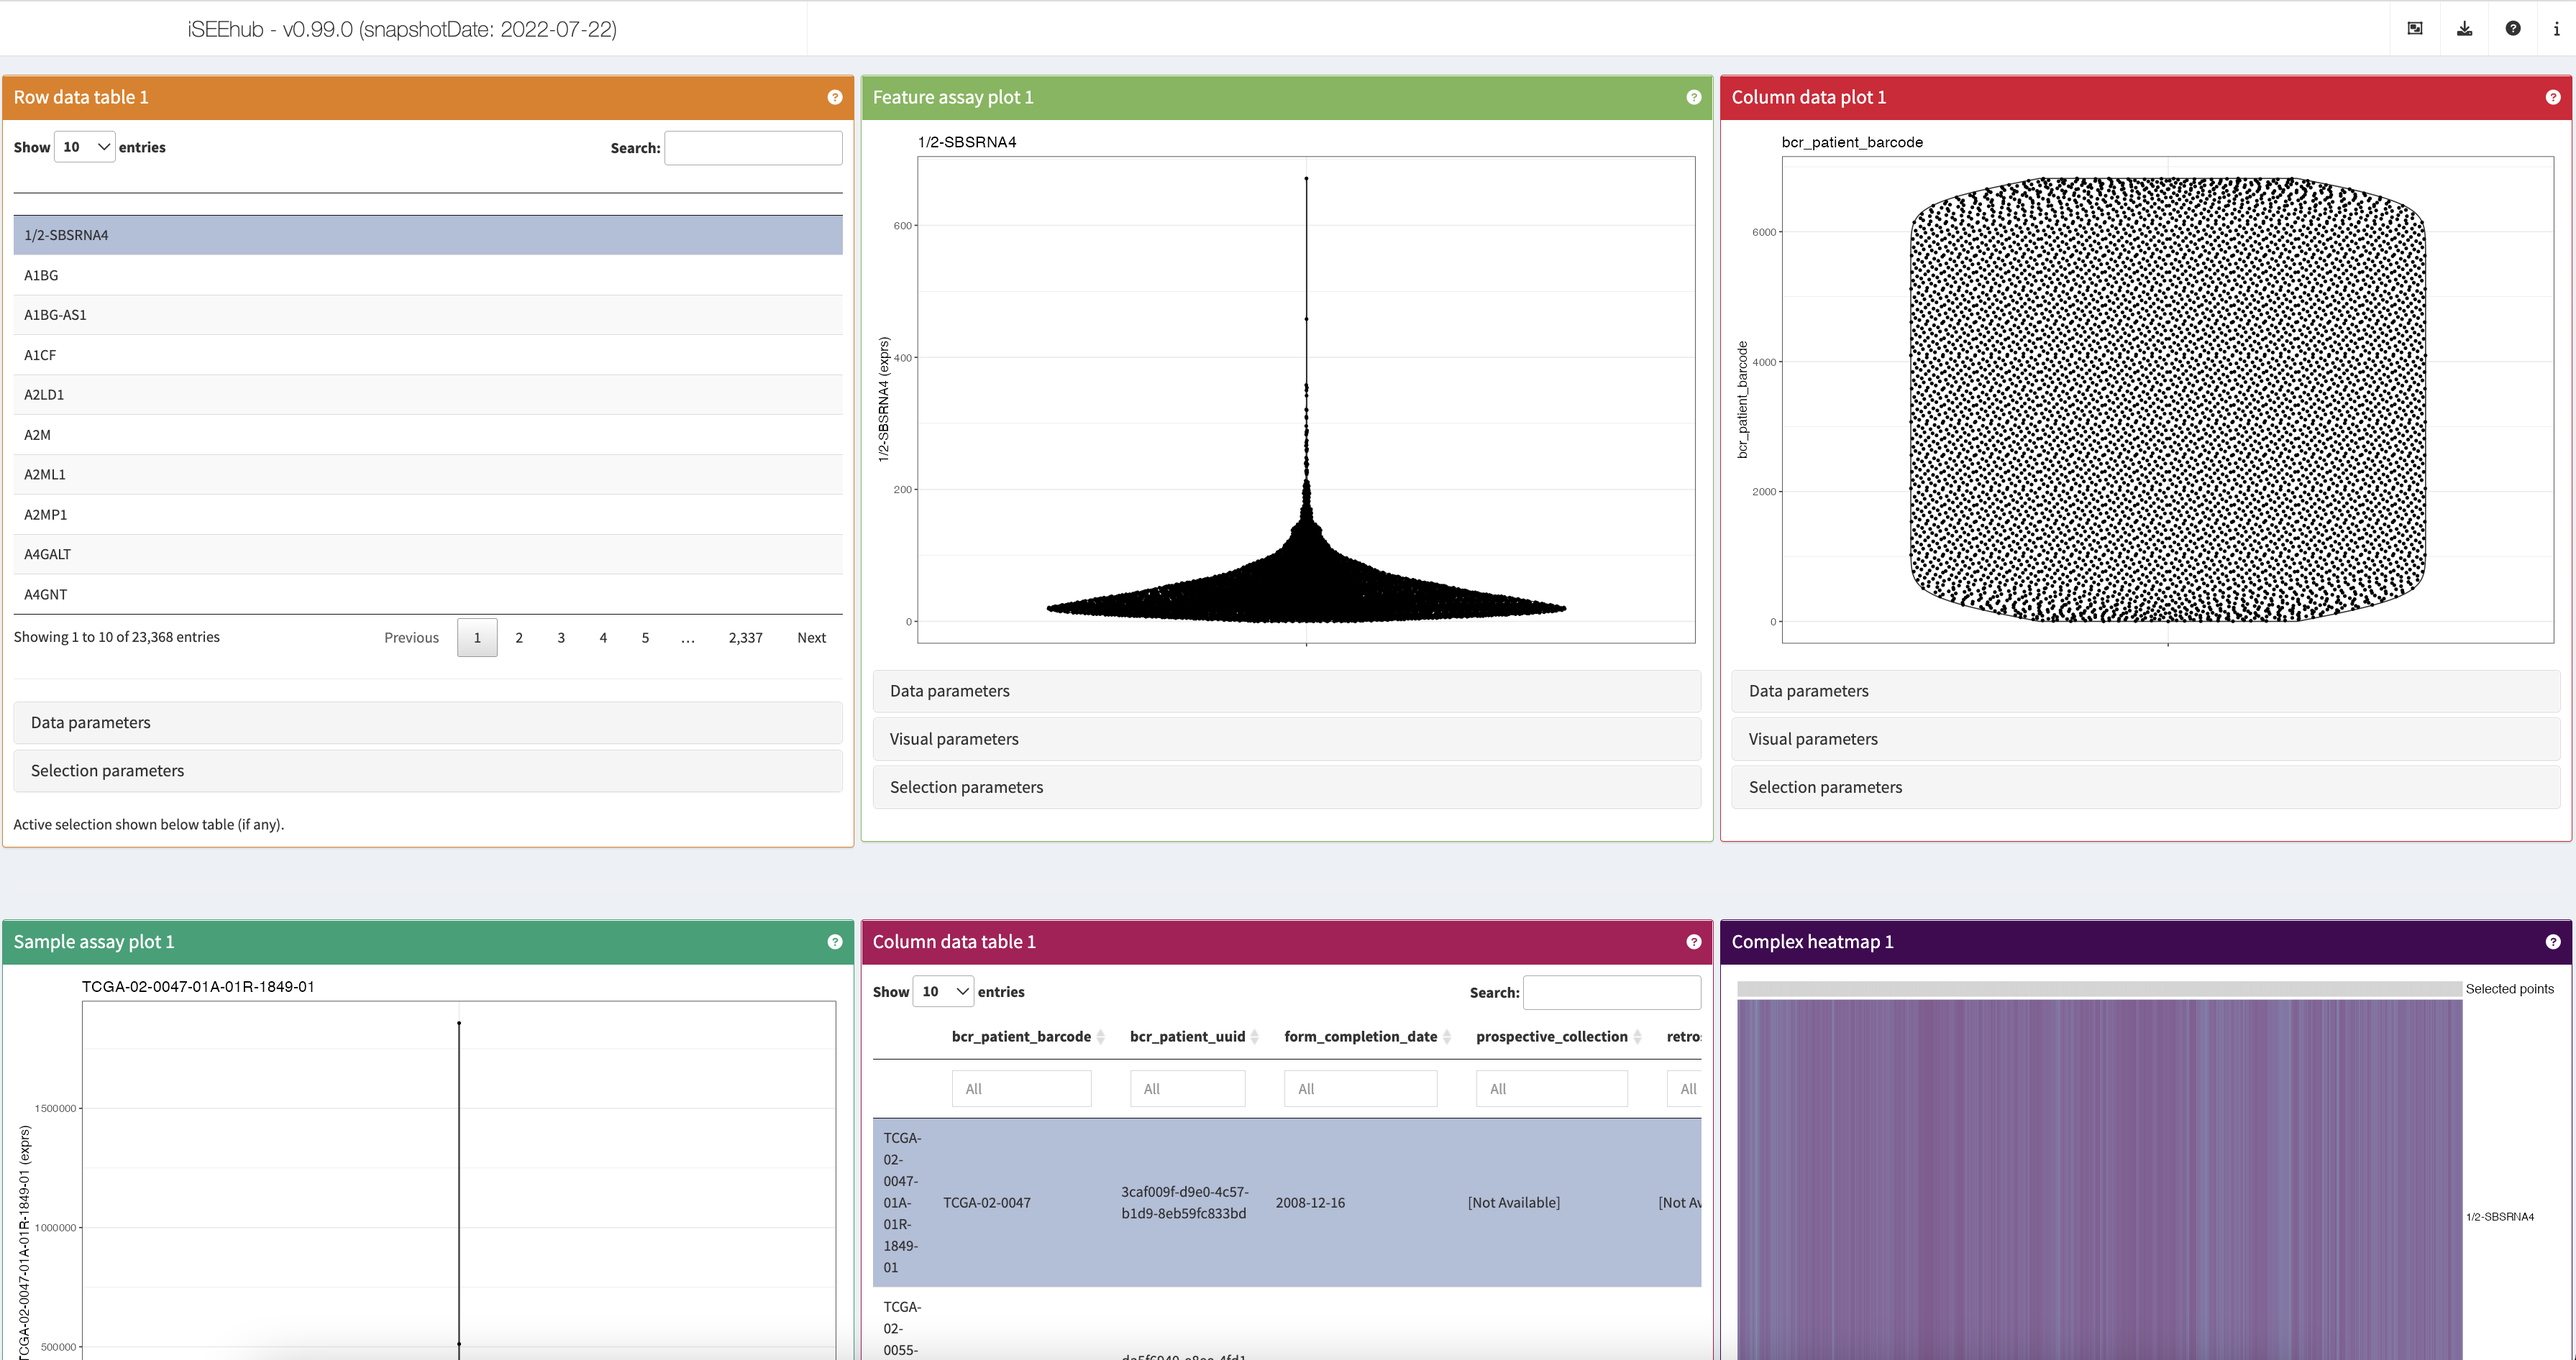
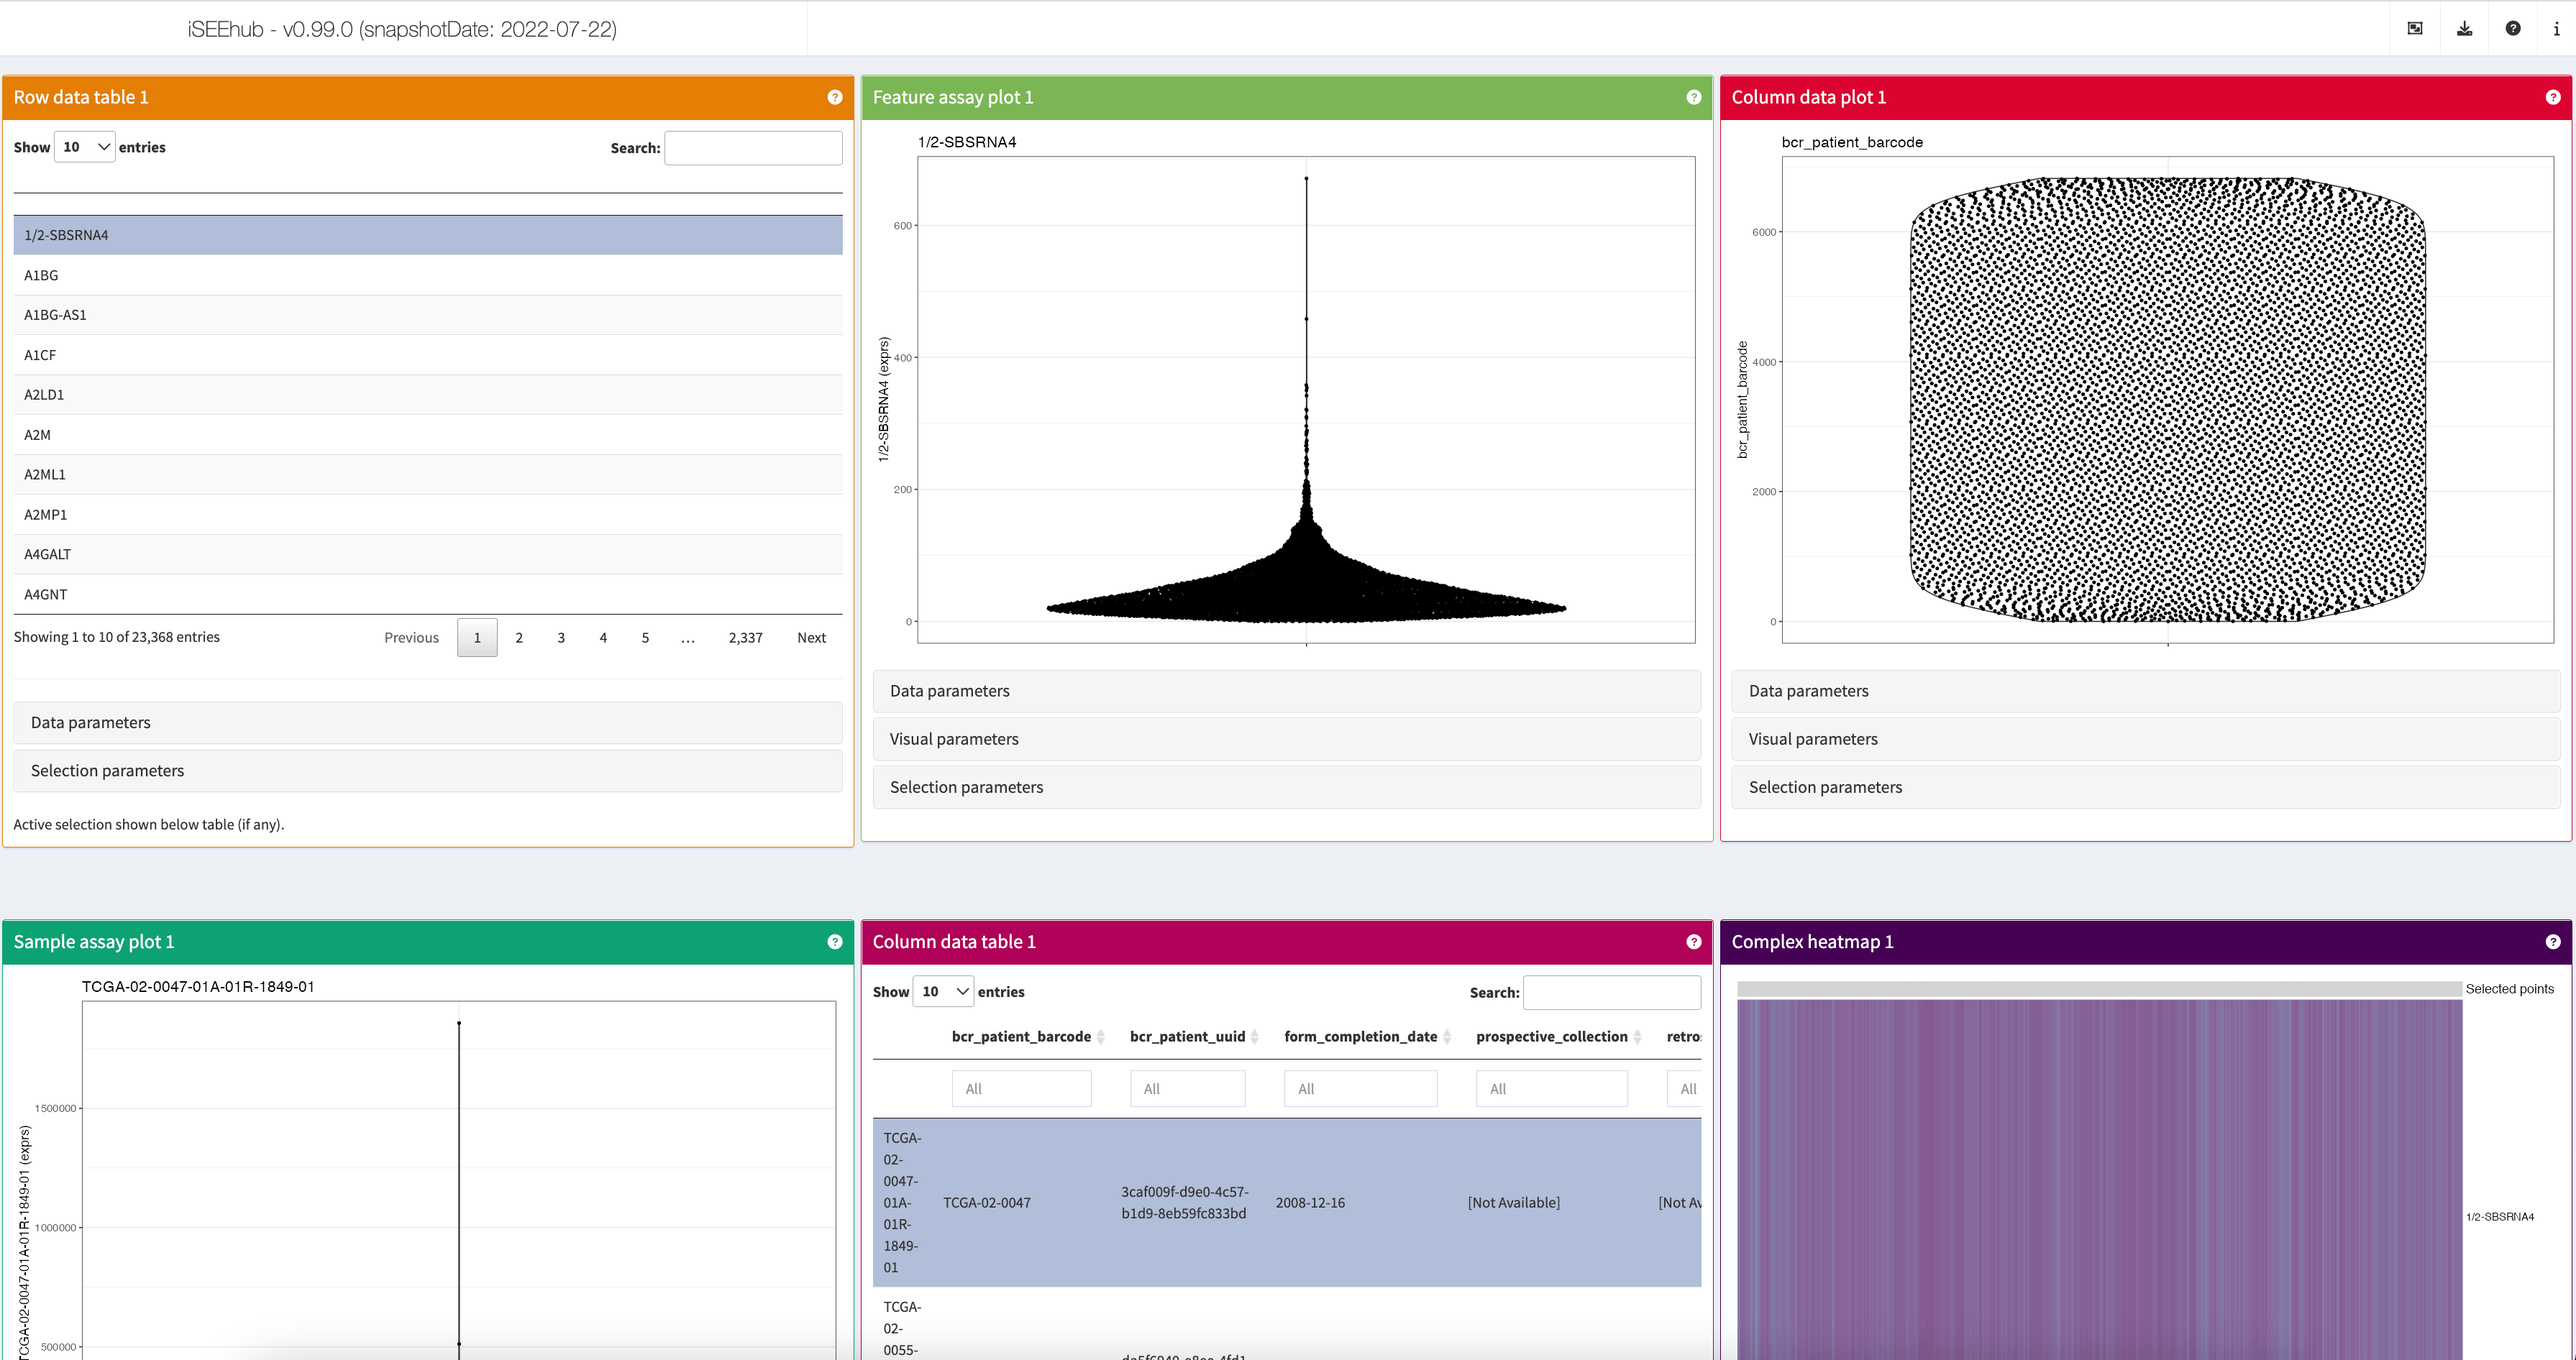
Smaller screenshots (#33)
* smaller screenshots sizes with pngquant

* version bump, 1.5.1

* gha fixed, using always devel version of Bioc

* version bump and news

---------

Changed region(s): [[0.0, 0.6549, 0.6817, 0.7172], [0.6508, 0.0312, 1.0, 0.0936], [0.0, 0.0312, 0.3409, 0.0936]]

diff --git a/NEWS.md b/NEWS.md
@@ -1,3 +1,7 @@
+# iSEEhub 1.9.1
+
+* Smaller screenshots sizes with `pngquant`.
+
 # iSEEhub 1.7.1
 
 * Version bump to rebuild classes derived from `DotPlot`.
